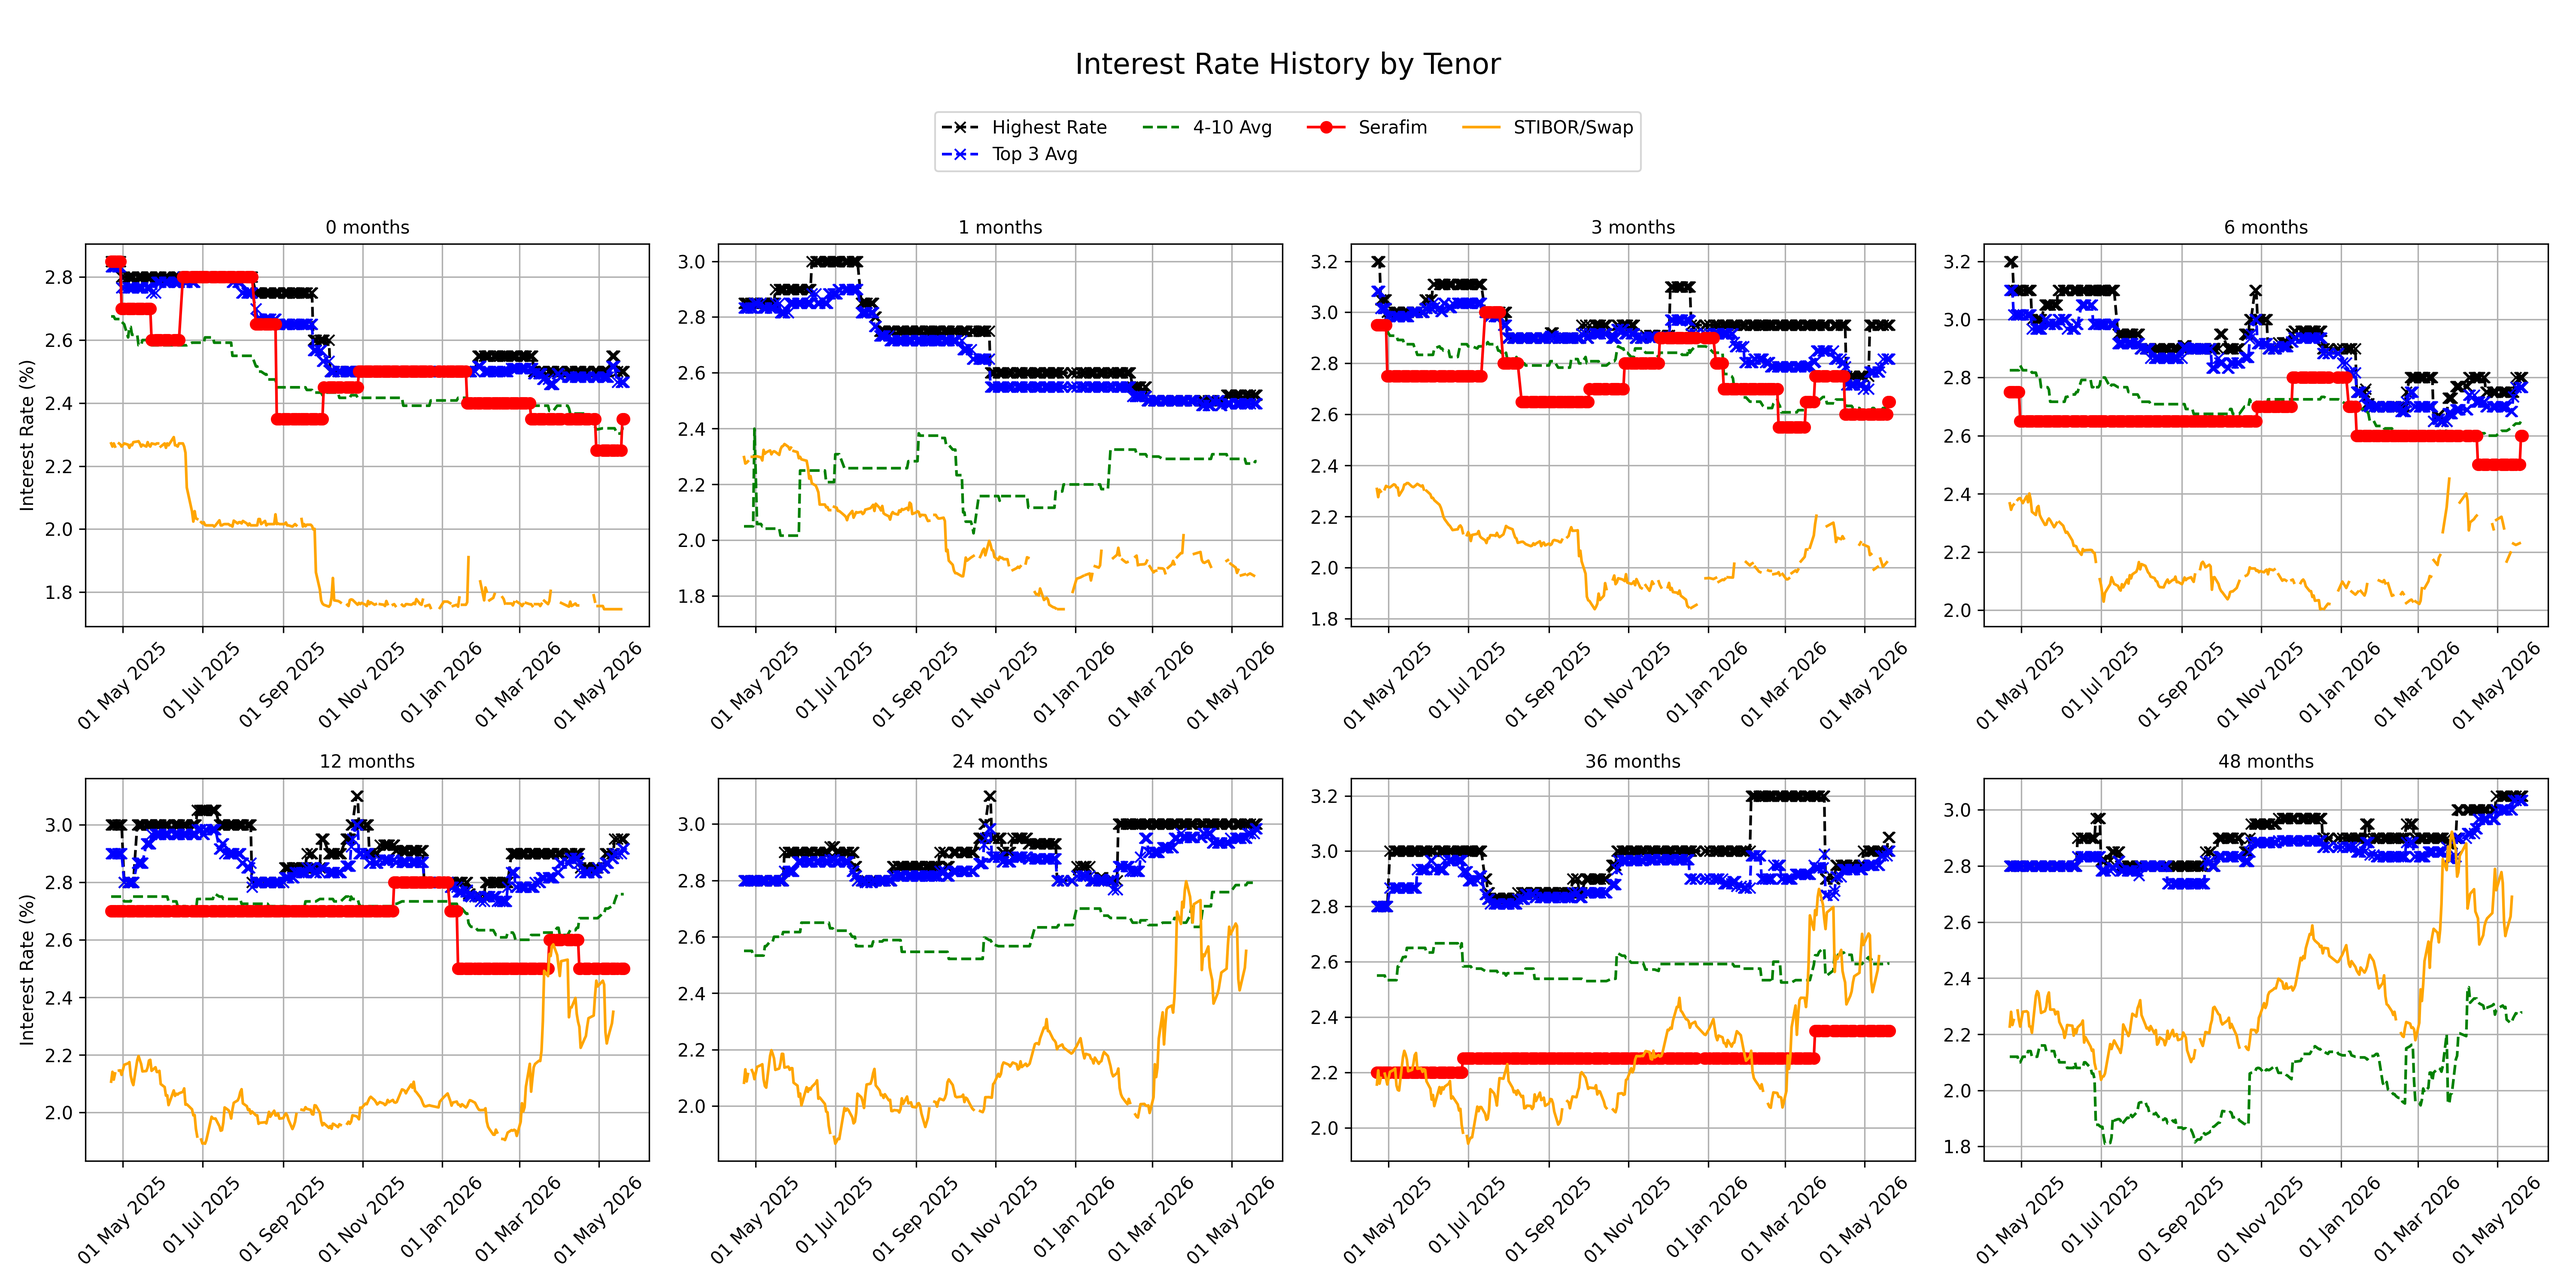
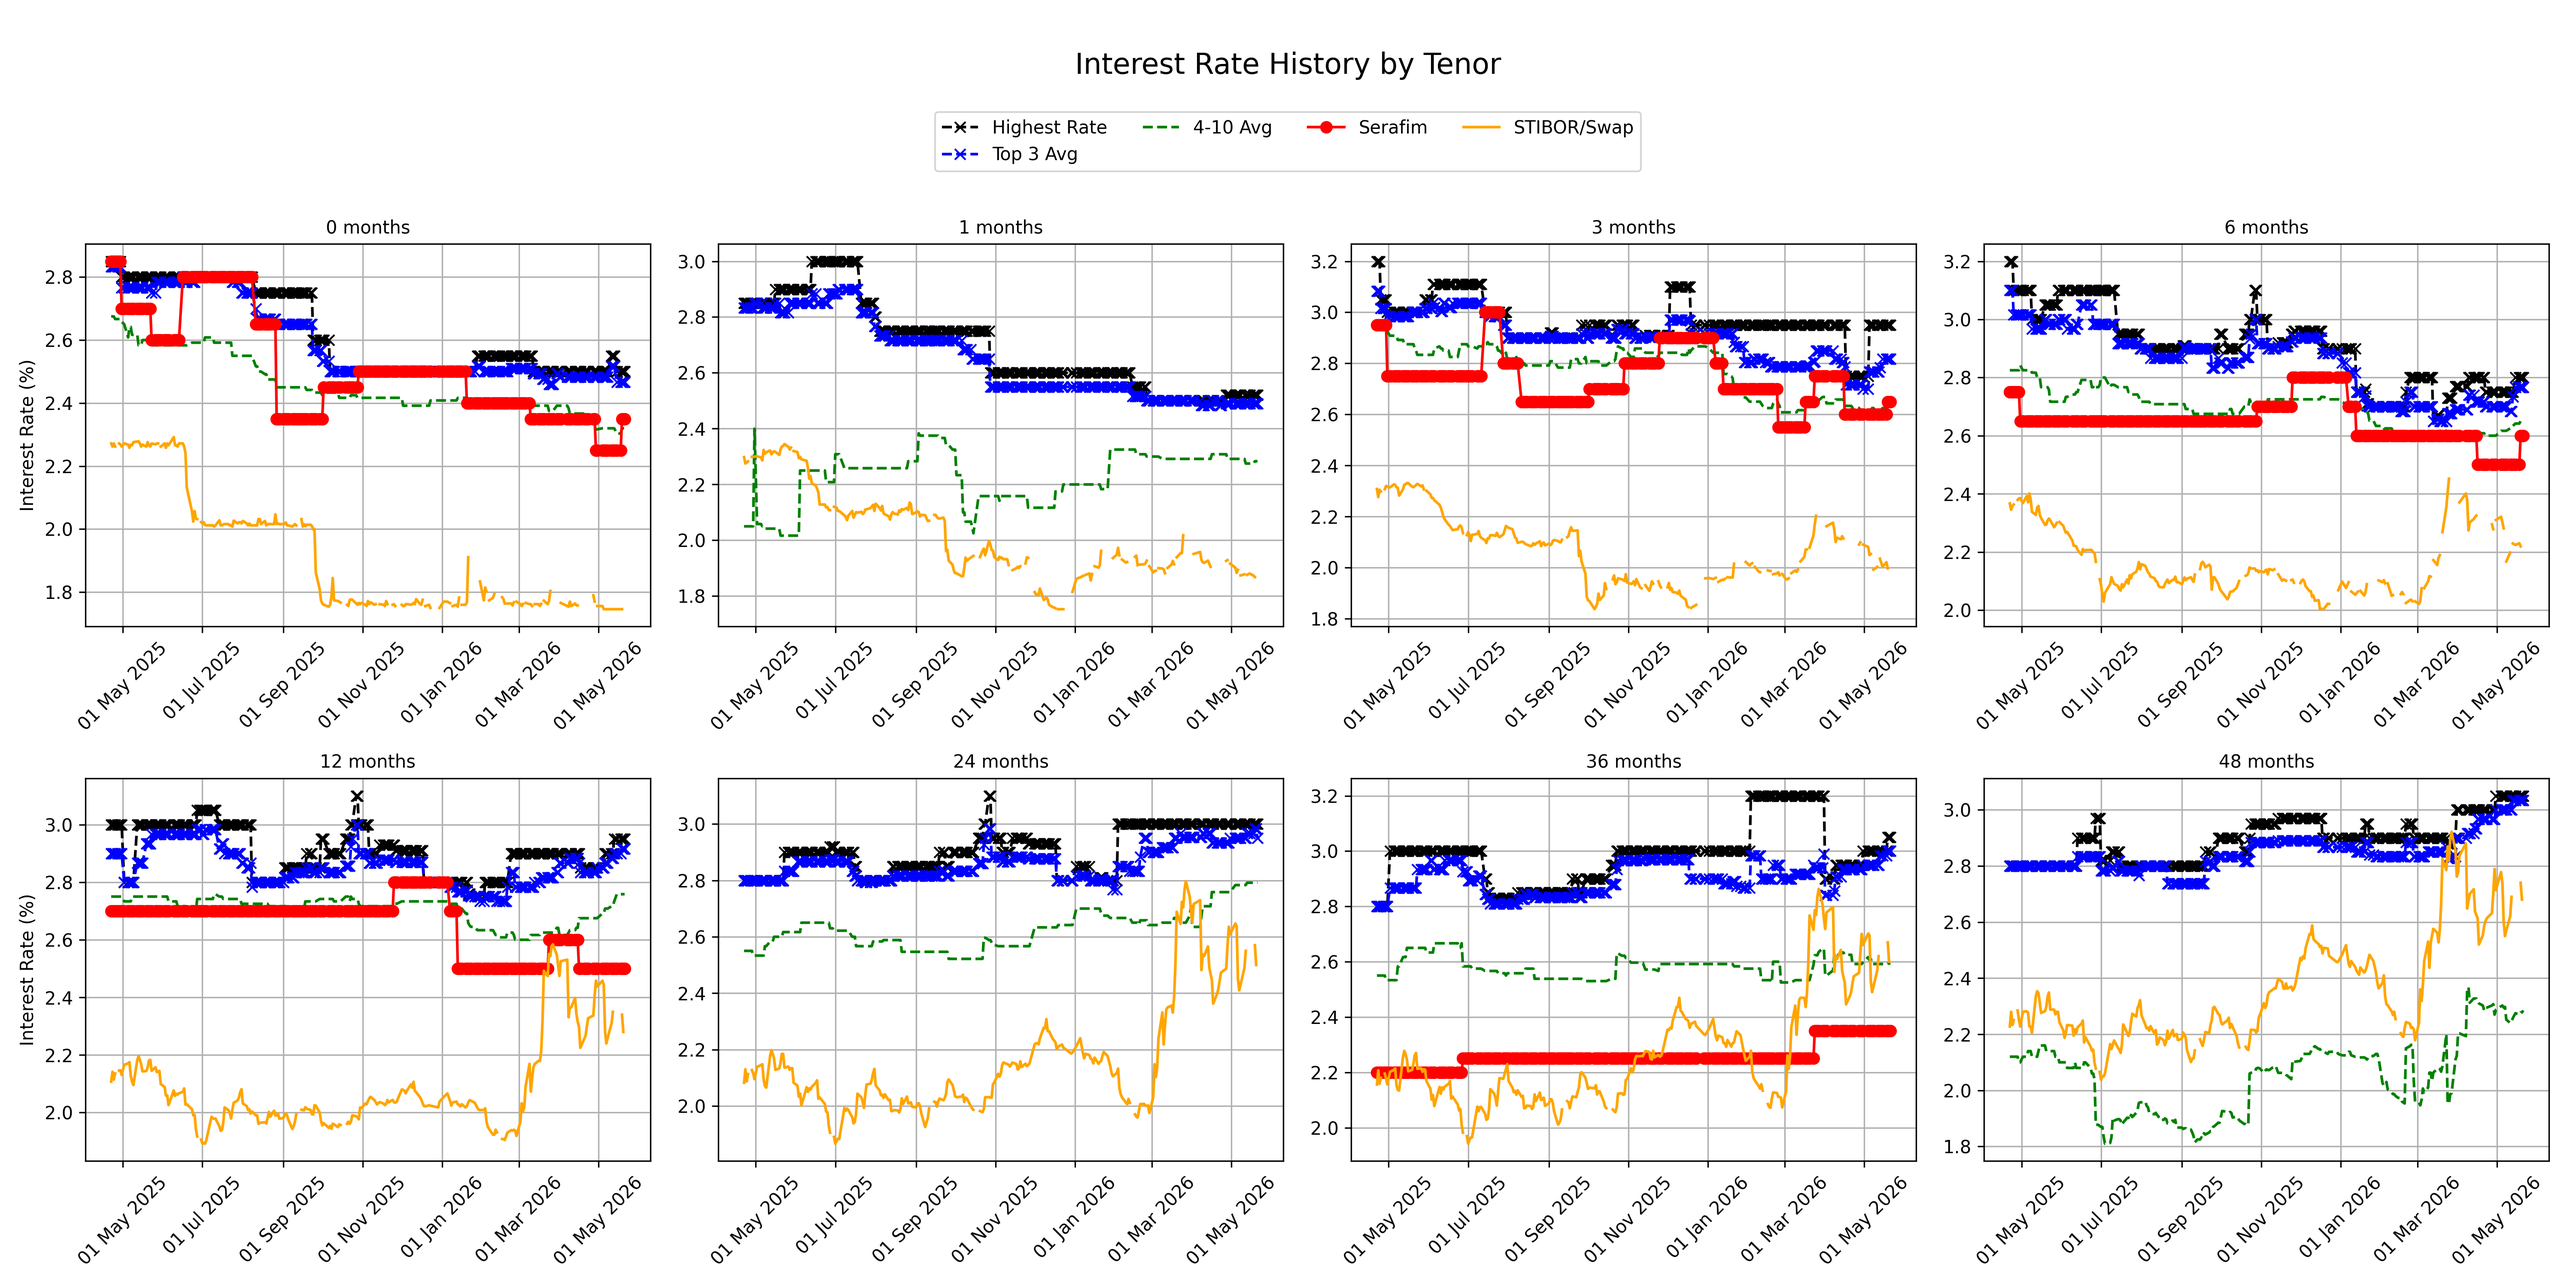
upda

diff --git a/Serafim/index.html b/Serafim/index.html
@@ -81,7 +81,7 @@
 
     <h1>Competitor Overview - Serafim</h1>
     <div style="text-align: right; color: #555; font-size: 0.9em;">
-        Updated: 2026-05-20
+        Updated: 2026-05-21
     </div>
     
     <!-- Tab buttons -->
@@ -391,13 +391,13 @@
     </tr>
     <tr>
       <th>Northmill Bank</th>
-      <td>1.80 (-0.10)</td>
+      <td>1.80</td>
       <td>-</td>
       <td>2.40</td>
-      <td>2.65</td>
+      <td>2.55 (-0.10)</td>
       <td>-</td>
       <td>2.75</td>
-      <td>3.00</td>
+      <td>2.90 (-0.10)</td>
       <td>-</td>
       <td>-</td>
       <td>-</td>
@@ -503,7 +503,7 @@
     </tr>
     <tr>
       <th>Landshypotek Bank</th>
-      <td>1.50 (-0.15)</td>
+      <td>1.50</td>
       <td>-</td>
       <td>2.40</td>
       <td>-</td>
@@ -662,11 +662,11 @@
       <td>1.75</td>
       <td>1.73</td>
       <td>-</td>
-      <td>1.85</td>
-      <td>2.19</td>
-      <td>2.36</td>
+      <td>1.86 (+0.01)</td>
+      <td>2.20 (+0.01)</td>
+      <td>2.37 (+0.01)</td>
       <td>-</td>
-      <td>2.60</td>
+      <td>2.64 (+0.04)</td>
       <td>-</td>
     </tr>
     <tr>
@@ -688,7 +688,7 @@
       <td>0.00</td>
       <td>0.50</td>
       <td>1.75</td>
-      <td>1.00</td>
+      <td>1.85 (+0.85)</td>
       <td>-</td>
       <td>1.95</td>
       <td>2.15</td>
@@ -719,10 +719,10 @@
       <td>1.90</td>
       <td>-</td>
       <td>2.05</td>
-      <td>1.95</td>
-      <td>2.04</td>
-      <td>2.11</td>
-      <td>1.85</td>
+      <td>1.97 (+0.02)</td>
+      <td>2.07 (+0.03)</td>
+      <td>2.14 (+0.03)</td>
+      <td>1.86 (+0.01)</td>
       <td>-</td>
     </tr>
     <tr>
@@ -795,30 +795,58 @@
   <tbody>
     <tr>
       <th>Northmill Bank</th>
-      <td>1.80 (-0.10)</td>
+      <td>1.80</td>
       <td>-</td>
       <td>2.40</td>
-      <td>2.65</td>
+      <td>2.55 (-0.10)</td>
       <td>-</td>
       <td>2.75</td>
-      <td>3.00</td>
+      <td>2.90 (-0.10)</td>
       <td>-</td>
       <td>-</td>
       <td>-</td>
       <td>-</td>
     </tr>
     <tr>
-      <th>Landshypotek Bank</th>
-      <td>1.50 (-0.15)</td>
+      <th>Handelsbanken</th>
+      <td>0.05</td>
+      <td>2.15</td>
+      <td>1.75</td>
+      <td>1.73</td>
       <td>-</td>
-      <td>2.40</td>
+      <td>1.86 (+0.01)</td>
+      <td>2.20 (+0.01)</td>
+      <td>2.37 (+0.01)</td>
+      <td>-</td>
+      <td>2.64 (+0.04)</td>
+      <td>-</td>
+    </tr>
+    <tr>
+      <th>Nordea</th>
+      <td>0.00</td>
+      <td>0.50</td>
+      <td>1.75</td>
+      <td>1.85 (+0.85)</td>
+      <td>-</td>
+      <td>1.95</td>
+      <td>2.15</td>
       <td>-</td>
       <td>-</td>
       <td>-</td>
       <td>-</td>
+    </tr>
+    <tr>
+      <th>Swedbank</th>
+      <td>0.00</td>
+      <td>0.10</td>
+      <td>1.75</td>
+      <td>1.90</td>
       <td>-</td>
-      <td>-</td>
-      <td>-</td>
+      <td>2.05</td>
+      <td>1.97 (+0.02)</td>
+      <td>2.07 (+0.03)</td>
+      <td>2.14 (+0.03)</td>
+      <td>1.86 (+0.01)</td>
       <td>-</td>
     </tr>
   </tbody>
